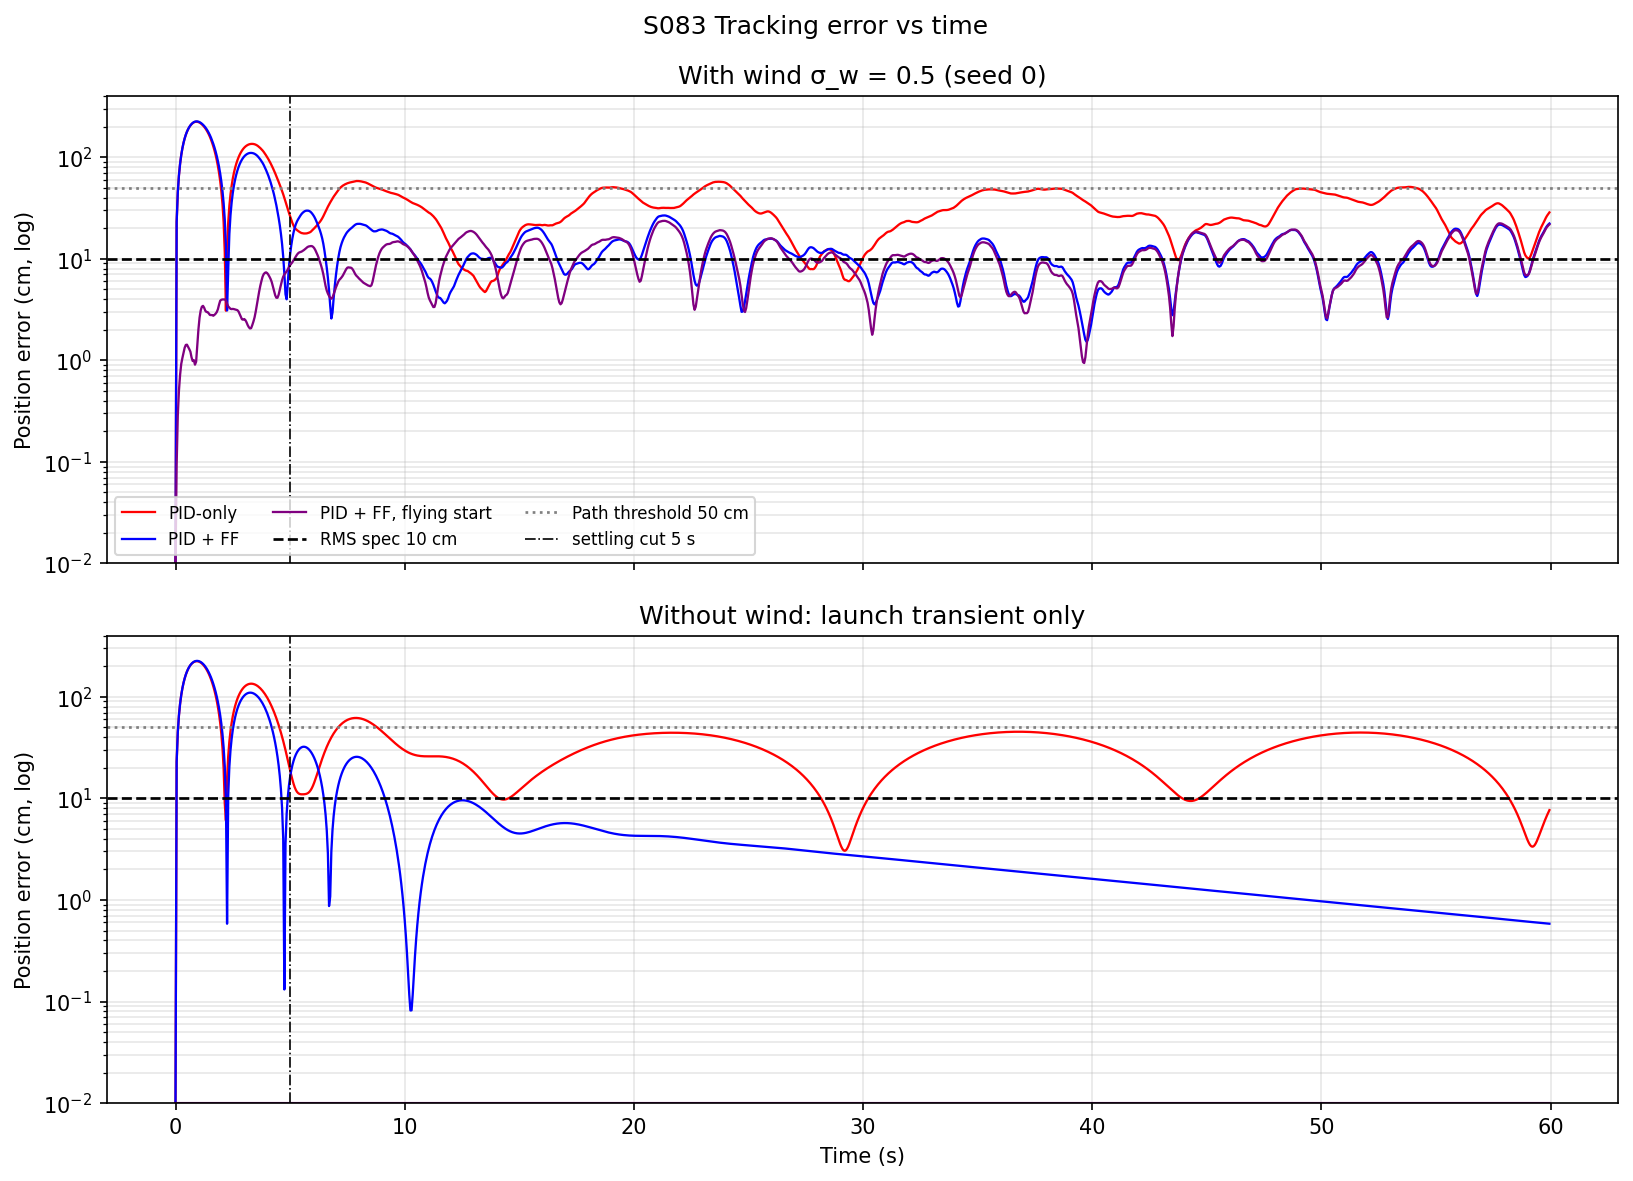
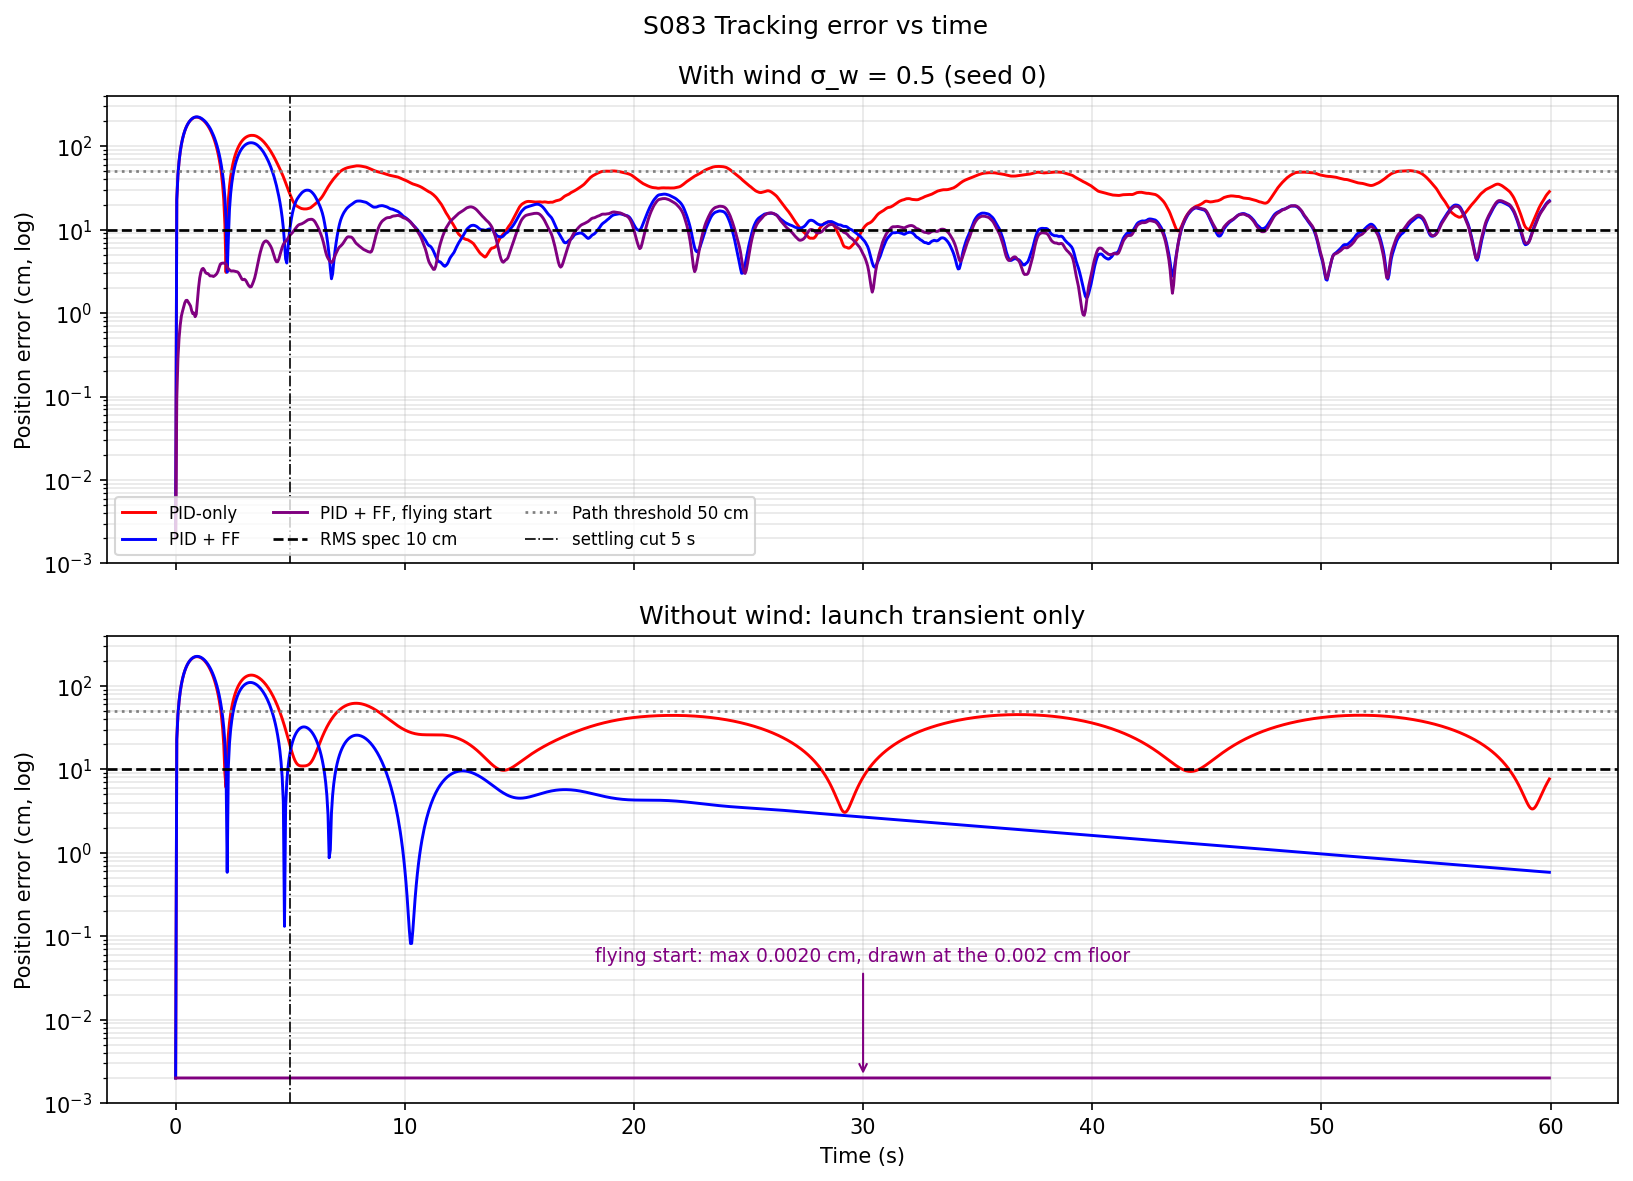
Fix S083 Light Show Single-Drone Test: address review follow-ups

diff --git a/src/05_special_entertainment/s083_light_show_single.py b/src/05_special_entertainment/s083_light_show_single.py
@@ -45,6 +45,7 @@ SEED = 83
 T_SETTLE = 5.0            # s — metrics are also reported after this launch transient
 SIGMA_SWEEP = [0.0, 0.1, 0.2, 0.3, 0.5, 1.0]
 N_SWEEP = 30              # seeds per sweep point
+HOLD_SWEEP = [0.05, 0.10, 0.20]   # s — how long each wind sample is held (flying start, PID + FF)
 A_LIMIT = 15.0            # m/s^2 — sanity bound on the commanded acceleration (card ext. 3)
 ANIM_STEP = 5             # sim steps per GIF frame (0.25 s)
 TRAIL_S = 5.0             # s — trailing path in the animation
@@ -151,7 +152,15 @@ def run_simulation():
     # Wind-free runs: how the launch transient decays (integral mode)
     calm = np.zeros((1, N_STEPS, 3))
     decay = {v: simulate(v != 'pid', calm, ref, v == 'fly')['err'][:, 0] for v in VARIANTS}
-    return ref, results, sweep, decay
+
+    # Wind hold time: the same sigma_w held for longer carries more energy at low frequency
+    hold = []
+    for h in HOLD_SWEEP:
+        m = int(round(h / DT))
+        w = np.repeat(unit_wind[:N_SWEEP, ::m], m, axis=1)[:, :N_STEPS]
+        r = simulate(True, SIGMA_W * w, ref, True)
+        hold.append((h, r['rms'].mean(), r['rms'].std(), int(np.sum(r['rms'] <= RMS_SPEC))))
+    return ref, results, sweep, decay, hold
 
 
 # ── Plotting ──────────────────────────────────────────────────────────────────
@@ -184,9 +193,10 @@ def plot_error_timeseries(results, decay, out_dir, seed=0):
     series = [(axes[0], {v: results[v]['err'][:, seed] for v in VARIANTS},
                f'With wind σ_w = {SIGMA_W} (seed {seed})'),
               (axes[1], decay, 'Without wind: launch transient only')]
+    floor_cm = 2e-3                     # errors below this are drawn at this level
     for ax, errs, title in series:
         for v in VARIANTS:
-            ax.plot(T_GRID, 100 * np.maximum(errs[v], 1e-4), color=COLORS[v], lw=1.1,
+            ax.plot(T_GRID, np.maximum(100 * errs[v], floor_cm), color=COLORS[v], lw=1.4,
                     label=LABELS[v])
         ax.axhline(100 * RMS_SPEC, color='k', ls='--', lw=1.3,
                    label=f'RMS spec {100 * RMS_SPEC:.0f} cm')
@@ -194,10 +204,14 @@ def plot_error_timeseries(results, decay, out_dir, seed=0):
                    label=f'Path threshold {100 * PASS_THRESHOLD:.0f} cm')
         ax.axvline(T_SETTLE, color='k', ls='-.', lw=0.8, label=f'settling cut {T_SETTLE:.0f} s')
         ax.set_yscale('log')
-        ax.set_ylim(1e-2, 400)
+        ax.set_ylim(1e-3, 400)
         ax.set_ylabel('Position error (cm, log)')
         ax.set_title(title)
         ax.grid(True, which='both', alpha=0.3)
+    fly_max = 100 * decay['fly'].max()
+    axes[1].annotate(f'flying start: max {fly_max:.4f} cm, drawn at the {floor_cm} cm floor',
+                     xy=(30, floor_cm), xytext=(30, 0.05), color=COLORS['fly'], fontsize=9,
+                     ha='center', arrowprops=dict(arrowstyle='->', color=COLORS['fly']))
     axes[0].legend(fontsize=8, ncol=3, loc='lower left')
     axes[1].set_xlabel('Time (s)')
     fig.suptitle('S083 Tracking error vs time')
@@ -321,7 +335,7 @@ def save_animation(results, out_dir, seed=0):
 # ── Main ──────────────────────────────────────────────────────────────────────
 
 if __name__ == '__main__':
-    ref, results, sweep, decay = run_simulation()
+    ref, results, sweep, decay, hold = run_simulation()
     cs, d1, d2, wp = ref
 
     t_fine = np.linspace(0, T_TOTAL, 6001)
@@ -376,6 +390,12 @@ if __name__ == '__main__':
             sel = (T_GRID >= t0) & (T_GRID < t1)
             vals.append(f'{100 * np.sqrt(np.mean(decay[v][sel] ** 2)):.2f}')
         print(f'    {LABELS[v]:<24}' + ' / '.join(vals))
+    print(f"  Wind-free flying start: max error over the mission {100 * decay['fly'].max():.4f} cm")
+    print(f'  Wind hold-time sweep (PID + FF, flying start, sigma_w = {SIGMA_W}, {N_SWEEP} seeds): '
+          'hold -> RMS full mission (cm), seeds passing 10 cm')
+    for h, m_, s_, npass in hold:
+        print(f'    {h:.2f} s: {100 * m_:.2f} ± {100 * s_:.2f} cm ({npass}/{N_SWEEP}); '
+              f'ratio to 0.05 s {m_ / hold[0][1]:.2f} (sqrt(hold/0.05) = {np.sqrt(h / 0.05):.2f})')
     print(f'  Wind sweep ({N_SWEEP} seeds): sigma_w -> RMS full / after {T_SETTLE:.0f} s (cm), '
           f'seeds passing 10 cm (full / after {T_SETTLE:.0f} s)')
     for j, sig in enumerate(SIGMA_SWEEP):

diff --git a/outputs/05_special_entertainment/s083_light_show_single/README.md b/outputs/05_special_entertainment/s083_light_show_single/README.md
@@ -50,6 +50,7 @@ Metrics: $\varepsilon_{RMS} = \sqrt{\overline{\|\mathbf e_k\|^2}}$, $\varepsilon
 | Monte Carlo (added) | 100 wind seeds (seed 83), shared by all configurations |
 | Settling cut for the "after 5 s" metrics (added) | 5 s |
 | Wind sweep (added) | $\sigma_w$ = 0, 0.1, 0.2, 0.3, 0.5, 1.0 m/s², 30 seeds each |
+| Wind hold-time sweep (added) | each wind sample held 0.05 (card), 0.10, 0.20 s; flying start, 30 seeds |
 | Acceleration sanity bound (asserted) | 15 m/s² |
 | `odeint` tolerances | rtol 1e-7, atol 1e-8 |
 
@@ -66,7 +67,7 @@ conda activate drones
 python src/05_special_entertainment/s083_light_show_single.py
 ```
 
-Runtime ≈ 4–6 min on a heavily loaded machine (about 10 other simulations running in parallel); most of it is the 18 wind-sweep batches.
+Runtime ≈ 2–5 min on a heavily loaded machine (about 10 other simulations running in parallel); most of it is the 18 wind-sweep batches.
 
 ---
 
@@ -87,7 +88,7 @@ Per seed: PID + FF has a lower RMS than PID-only in 100/100 seeds (full and afte
 Seed 0 (figures): PID-only RMS 48.59 cm (FAIL), PID + FF 36.45 cm (FAIL), flying start 11.20 cm (FAIL).
 
 **Key findings**:
-- **No configuration meets the 10 cm spec at the card's wind level.** With the card's start from rest, PID-only and PID + FF fail in every seed. Even the flying start, which removes the launch, passes in only 11/100 seeds (mean 10.92 cm): $\sigma_w = 0.5$ m/s² of white-noise wind alone produces about 11 cm of error with these gains.
+- **No configuration meets the 10 cm spec at the card's wind level.** With the card's start from rest, PID-only and PID + FF fail in every seed. Even the flying start, which removes the launch, passes in only 11/100 seeds (mean 10.92 cm): $\sigma_w = 0.5$ m/s² of white-noise wind alone produces about 11 cm of error with these gains. This number depends on how long each wind sample is held, which the card fixes only implicitly through the 0.05 s step: the same $\sigma_w$ held for longer carries more low-frequency energy. With the flying start (30 seeds) the RMS is 10.87 cm for a 0.05 s hold, 15.45 cm for 0.10 s and 21.78 cm for 0.20 s, i.e. it grows as $\sqrt{\text{hold time}}$ (ratios 1.42 and 2.00 vs $\sqrt{2} = 1.41$ and $\sqrt{4} = 2.00$). The pass/fail verdicts in this README hold for the card's 0.05 s re-sampling only.
 - **The launch dominates the card's full-mission metric.** The drone starts at rest while the script starts at 4.68 m/s, so in seed 0 the error grows to 221.3 cm (PID-only) and 223.5 cm (PID + FF) after 1 s. This sets the maximum error (≈ 2.2 m for both) and most of the full-mission RMS. Feedforward does not help here; the flying start keeps the error at 1.4 / 2.0 / 3.9 cm at t = 0.5 / 1 / 2 s.
 - **The launch error decays slowly because of the integral term.** Without wind, PID + FF has an RMS of 118.86 cm in the first 5 s, then 19.70, 5.80, 3.54, 1.92 and 0.90 cm in the windows 5–10, 10–20, 20–30, 30–45 and 45–60 s. This matches the slow closed-loop pole at −0.051 s⁻¹ (19.6 s time constant). The flying start has 0.00 cm in every window: with feedforward and no wind the spline is tracked exactly.
 - **Feedforward removes the curvature lag.** Without wind, PID-only never settles: its window RMS after the launch is 42.05 / 25.51 / 32.71 / 32.54 / 31.70 cm, and its error peaks (bottom panel of the error plot) are close to the steady lag $a_{ref}/K_p = 0.891/2.0 = 0.446$ m expected at the most curved part of the path. After 5 s with wind, PID + FF reduces the RMS from 34.05 to 12.93 cm and raises completion from 91.99 % to 100.00 %.
@@ -112,7 +113,7 @@ Reference (green) and the three drone paths for seed 0. At this scale the 10–5
 
 ### Tracking Error vs Time
 
-Top: seed 0 with wind. Bottom: the same configurations without wind, which isolates the launch transient and its slow decay (log scale):
+Top: seed 0 with wind. Bottom: the same configurations without wind, which isolates the launch transient and its slow decay (log scale). Without wind the flying start tracks the spline almost exactly (max 0.0020 cm), so its curve is drawn at the 0.002 cm floor of the axis:
 
 ![Error Time Series](./error_timeseries.png)
 
